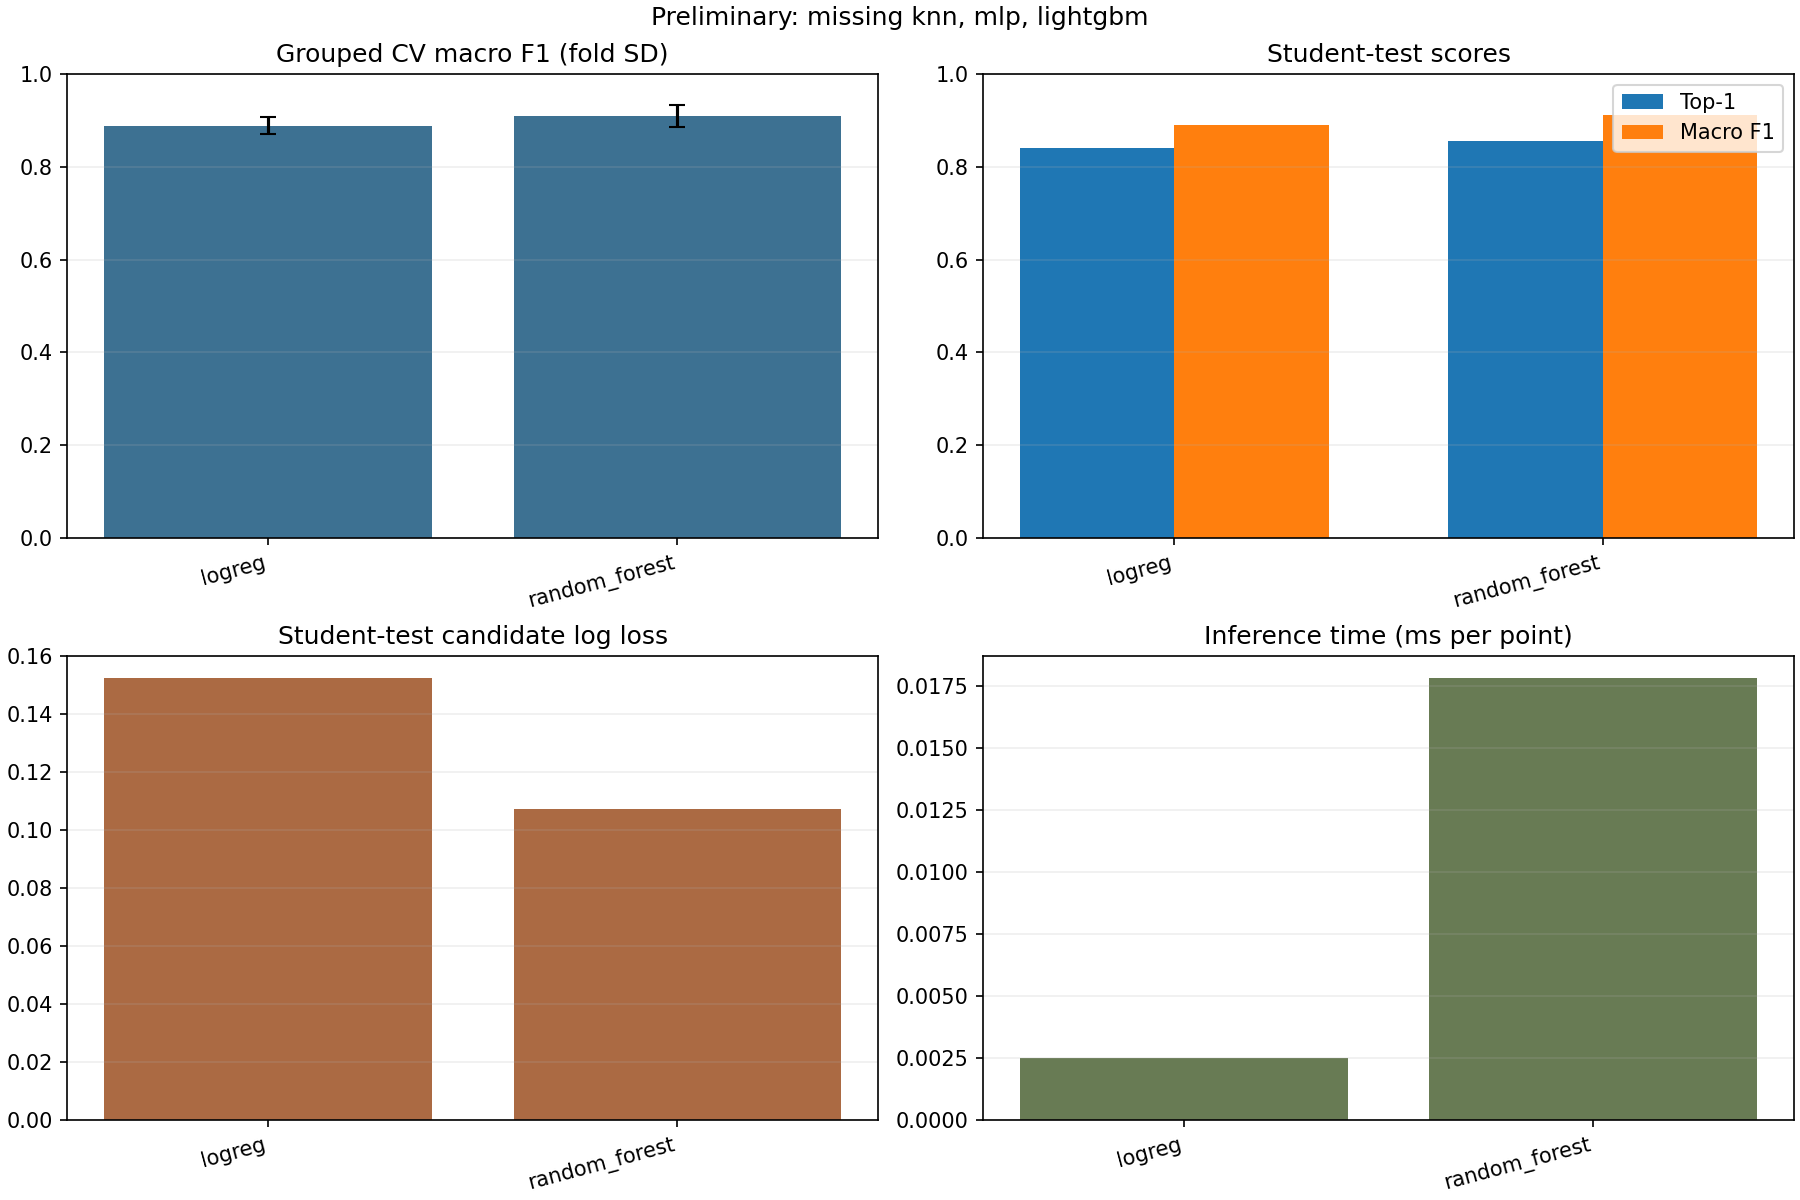
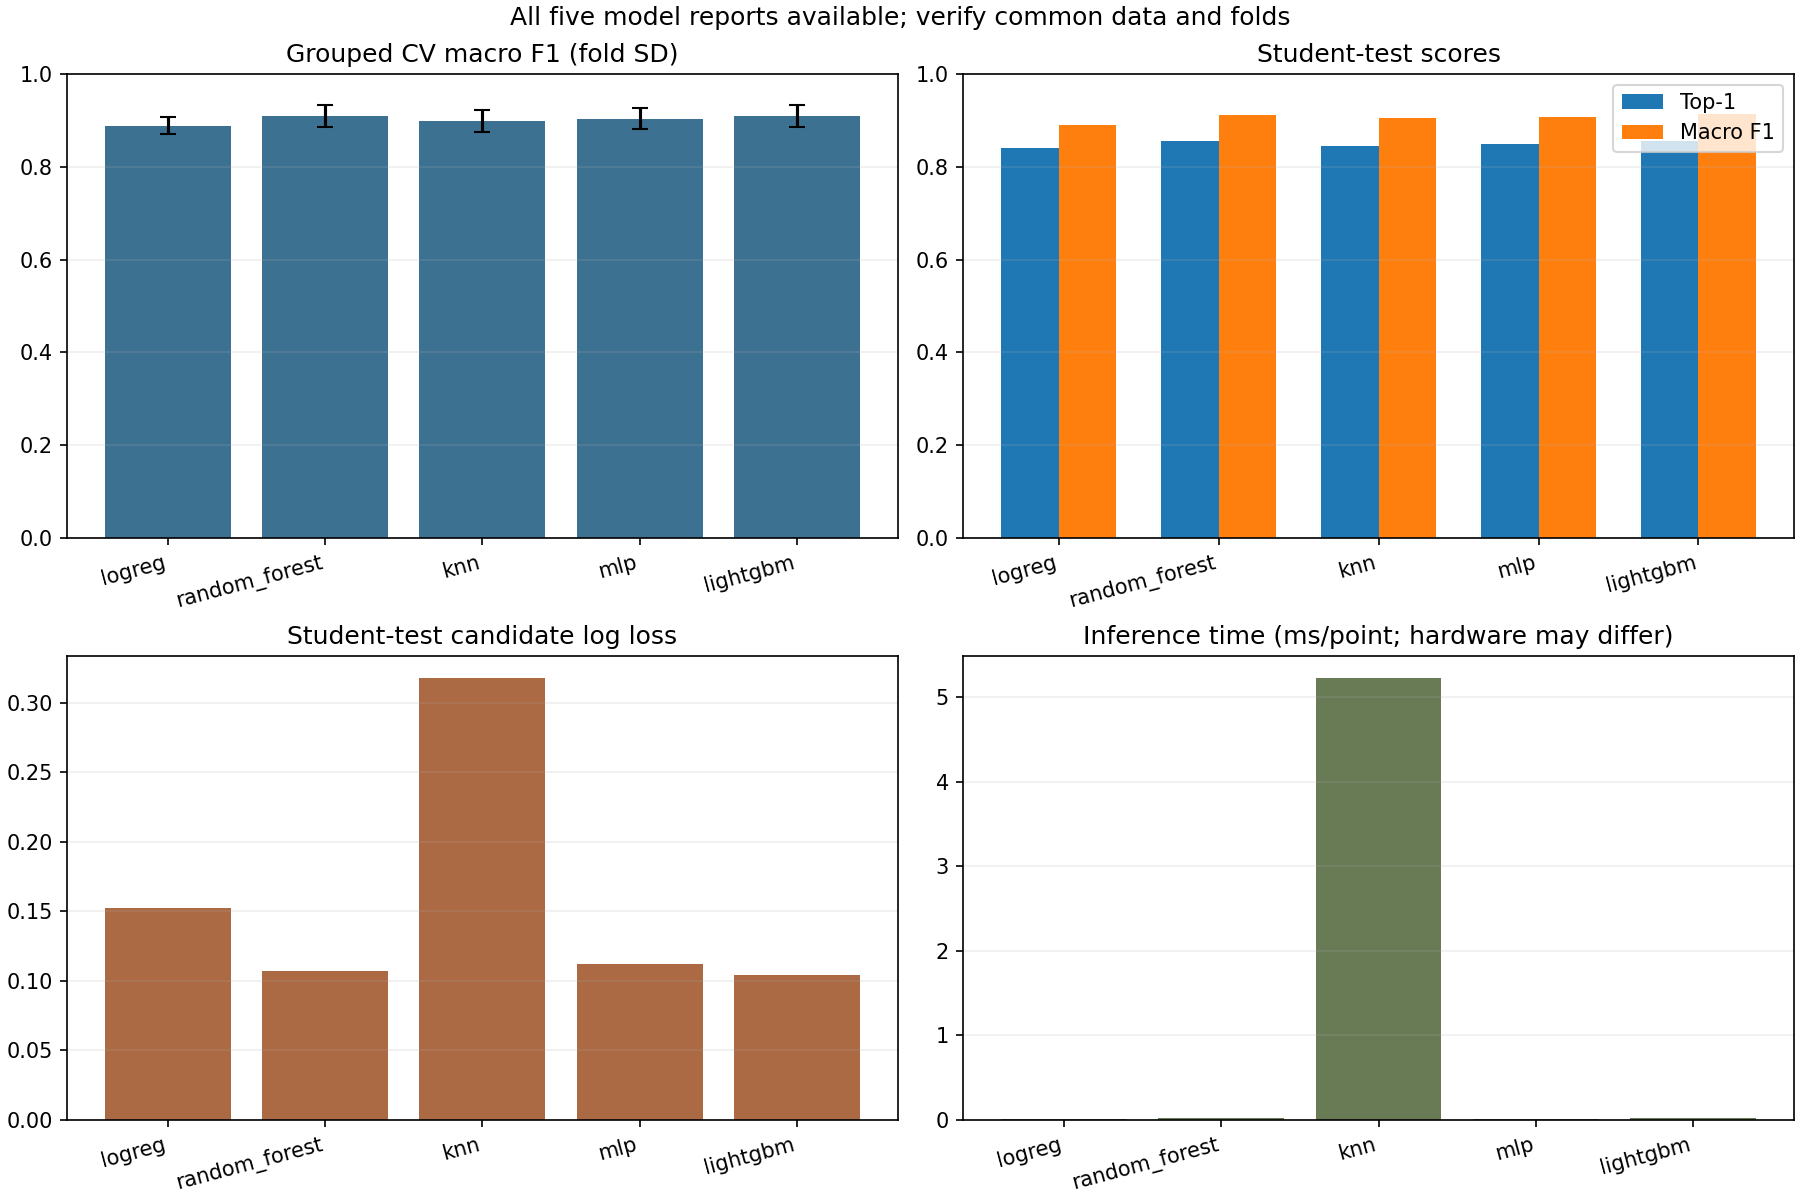
Compare v2 models and prepare Bayesian tuning

diff --git a/optimisation/tune_lightgbm.py b/optimisation/tune_lightgbm.py
@@ -1,0 +1,113 @@
+"""Tune v2 LightGBM with Optuna on trip-grouped training folds only.
+
+Run from repository root: python -m optimisation.tune_lightgbm
+The study resumes from SQLite and writes trials.csv after each completed trial.
+"""
+from __future__ import annotations
+import argparse, hashlib, json, time
+from concurrent.futures import ThreadPoolExecutor
+from pathlib import Path
+import joblib
+import numpy as np
+import optuna
+import pandas as pd
+from lightgbm import early_stopping, log_evaluation
+from sklearn.model_selection import GroupShuffleSplit
+from models.lightgbm.train import make_pipeline, score, SEED, INNER_VAL_FRACTION, EARLY_STOPPING_ROUNDS
+from pathsnap.config import CFG, repo_path
+from pathsnap.features import FEATURE_COLUMNS
+from pathsnap.quality import flagged_trip_ids
+
+MIN_TRIALS = 50
+
+def digest_files(paths):
+    out={}
+    for path in paths:
+        with path.open('rb') as f: out[str(path.name)]=hashlib.file_digest(f,'sha256').hexdigest()
+    return out
+
+def load_train():
+    base=repo_path(CFG['processed_dir']); folds=pd.read_csv(base/'folds.csv'); excluded=flagged_trip_ids()
+    train=pd.read_parquet(base/'train_candidates.parquet'); refs=pd.read_parquet(base/'point_refs.parquet')
+    if CFG['dataset_version']!=2 or excluded!=[33,54]: raise ValueError('Unexpected v2 configuration or exclusions')
+    if set(train.trip_id.unique())!=set(folds.trip_id): raise ValueError('Training trips do not match folds')
+    train=train[~train.trip_id.isin(excluded)].reset_index(drop=True)
+    refs=refs[refs.trip_id.isin(train.trip_id.unique())].reset_index(drop=True)
+    if len(set(train.trip_id))!=78 or folds.fold.nunique()!=5: raise ValueError('Expected 78 retained trips and 5 folds')
+    return train,refs,folds,excluded
+
+def params_for(trial):
+    return {'num_leaves':trial.suggest_int('num_leaves',15,127,log=True),
+      'learning_rate':trial.suggest_float('learning_rate',0.02,0.2,log=True),
+      'min_child_samples':trial.suggest_int('min_child_samples',10,100,log=True),
+      'colsample_bytree':trial.suggest_float('colsample_bytree',0.6,1.0),
+      'subsample':trial.suggest_float('subsample',0.6,1.0),
+      'reg_alpha':trial.suggest_float('reg_alpha',1e-8,10.0,log=True),
+      'reg_lambda':trial.suggest_float('reg_lambda',1e-8,10.0,log=True),
+      'n_estimators':1000, 'n_jobs':4}
+
+def fold_data(train,refs,folds):
+    fold_lookup=dict(zip(folds.trip_id,folds.fold)); assignment=train.trip_id.map(fold_lookup)
+    if assignment.isna().any(): raise ValueError('A training trip lacks a fold')
+    for fold in sorted(folds.fold.unique()):
+        outer=train[assignment!=fold]; validation=train[assignment==fold].reset_index(drop=True)
+        real=outer[outer.arc_id>=0].reset_index(drop=True)
+        group=GroupShuffleSplit(n_splits=1,test_size=INNER_VAL_FRACTION,random_state=SEED)
+        fit_idx,inner_idx=next(group.split(real,groups=real.trip_id)); fit=real.iloc[fit_idx]; inner=real.iloc[inner_idx]
+        assert not (set(fit.trip_id)&set(inner.trip_id)) and not (set(outer.trip_id)&set(validation.trip_id))
+        yield int(fold),fit,inner,validation,refs[refs.trip_id.isin(validation.trip_id.unique())]
+
+def run_target(target, out_dir):
+    if target<1: raise ValueError('Target trials must be positive')
+    out_dir.mkdir(parents=True,exist_ok=True); train,refs,folds,excluded=load_train()
+    base=repo_path(CFG['processed_dir']); fingerprint=digest_files([base/'train_candidates.parquet',base/'point_refs.parquet',base/'folds.csv',base/'trip_quality.csv',Path(__file__),repo_path('models/lightgbm/train.py')])
+    db=(out_dir/'study_v2.sqlite3').resolve(); sampler_path=out_dir/'sampler_v2.joblib'
+    sampler=joblib.load(sampler_path) if sampler_path.exists() else optuna.samplers.TPESampler(seed=SEED)
+    study=optuna.create_study(study_name='pathsnap_lightgbm_v2',storage='sqlite:///'+db.as_posix(),direction='maximize',sampler=sampler,load_if_exists=True)
+    if any(t.state==optuna.trial.TrialState.COMPLETE for t in study.trials) and not sampler_path.exists(): raise ValueError('Sampler state is missing; use a fresh study directory to avoid duplicate suggestions')
+    if study.user_attrs.get('fingerprint') not in (None,fingerprint): raise ValueError('Input/code changed since this study began; use a new study directory')
+    study.set_user_attr('fingerprint',fingerprint); study.set_user_attr('excluded_trips',excluded); study.set_user_attr('dataset_version',2)
+    splits=list(fold_data(train,refs,folds)); start=time.perf_counter()
+    def objective(trial):
+        params=params_for(trial)
+        def evaluate_fold(split):
+            fold,fit,inner,valid,ref=split
+            pipe=make_pipeline(**params)
+            pipe.fit(fit[FEATURE_COLUMNS],fit.label,model__eval_set=[(inner[FEATURE_COLUMNS],inner.label)],model__eval_metric='binary_logloss',model__callbacks=[early_stopping(EARLY_STOPPING_ROUNDS,verbose=False),log_evaluation(0)])
+            result=score(pipe,valid,ref)
+            return result['top1'],result['cand']['macro_f1'],result['cand']['log_loss'],int(pipe.named_steps['model'].best_iteration_)
+        # Independent folds run in parallel; map preserves their original order.
+        with ThreadPoolExecutor(max_workers=2) as executor:
+            per_fold=list(executor.map(evaluate_fold,splits))
+        scores,macros,losses,iterations=map(list,zip(*per_fold))
+        trial.set_user_attr('fold_top1',scores); trial.set_user_attr('fold_macro_f1',macros); trial.set_user_attr('fold_log_loss',losses); trial.set_user_attr('best_iterations',iterations)
+        trial.set_user_attr('cv_macro_f1_mean',float(np.mean(macros))); trial.set_user_attr('cv_log_loss_mean',float(np.mean(losses)))
+        return float(np.mean(scores))
+    def checkpoint(study,trial):
+        study.trials_dataframe().to_csv(out_dir/'trials.csv',index=False)
+        sampler_tmp=out_dir/'sampler_v2.tmp'; joblib.dump(study.sampler,sampler_tmp); sampler_tmp.replace(sampler_path)
+        print(f'trial {trial.number}: CV top1={trial.value:.6f}; completed={len([x for x in study.trials if x.state==optuna.trial.TrialState.COMPLETE])}; elapsed_s={time.perf_counter()-start:.1f}',flush=True)
+    complete=sum(t.state==optuna.trial.TrialState.COMPLETE for t in study.trials)
+    if complete<target: study.optimize(objective,n_trials=target-complete,callbacks=[checkpoint],gc_after_trial=True)
+    study.trials_dataframe().to_csv(out_dir/'trials.csv',index=False)
+    print('completed trials:',sum(t.state==optuna.trial.TrialState.COMPLETE for t in study.trials),flush=True)
+    if sum(t.state==optuna.trial.TrialState.COMPLETE for t in study.trials)<MIN_TRIALS:
+        print('Search is incomplete; not selecting or evaluating a final model.',flush=True); return
+    best=study.best_trial; best_params={**best.params,'n_estimators':int(np.median(best.user_attrs['best_iterations'])),'n_jobs':4}
+    real=train[train.arc_id>=0]; model=make_pipeline(**best_params); t0=time.perf_counter(); model.fit(real[FEATURE_COLUMNS],real.label); train_time=time.perf_counter()-t0
+    # Student-test files are opened only after the search and final choice.
+    test=pd.read_parquet(base/'test_candidates.parquet'); all_refs=pd.read_parquet(base/'point_refs.parquet'); test_refs=all_refs[all_refs.trip_id.isin(test.trip_id.unique())]; final=score(model,test,test_refs)
+    artifacts=repo_path(CFG['artifacts_dir']); artifacts.mkdir(parents=True,exist_ok=True); joblib.dump(model,artifacts/'final_model.joblib')
+    (artifacts/'feature_columns.json').write_text(json.dumps(FEATURE_COLUMNS,indent=2),encoding='utf-8')
+    baseline=json.loads((repo_path(CFG['results_dir'])/'lightgbm'/'metrics.json').read_text(encoding='utf-8-sig'))
+    summary={'model':'lightgbm','dataset_version':2,'excluded_trips':excluded,'n_completed_trials':sum(t.state==optuna.trial.TrialState.COMPLETE for t in study.trials),'best_trial':best.number,'best_cv_top1':best.value,'best_cv_macro_f1':best.user_attrs['cv_macro_f1_mean'],'best_cv_log_loss':best.user_attrs['cv_log_loss_mean'],'best_params':best_params,'test_top1':final['top1'],'test_macro_f1':final['cand']['macro_f1'],'test_log_loss':final['cand']['log_loss'],'test_candidate_miss_rate':final['miss'],'inference_ms_per_point':1000*final['predict_s']/final['n_points'],'refit_time_s':train_time,'baseline':{k:baseline[k] for k in ('cv_top1_mean','cv_macro_f1_mean','test_top1','test_macro_f1','test_log_loss','inference_ms_per_point')},'search_elapsed_s_this_invocation':time.perf_counter()-start,'search_trial_time_s_total':sum(t.duration.total_seconds() for t in study.trials if t.duration is not None),'fold_results':{'top1':best.user_attrs['fold_top1'],'macro_f1':best.user_attrs['fold_macro_f1'],'log_loss':best.user_attrs['fold_log_loss'],'best_iterations':best.user_attrs['best_iterations']}}
+    (out_dir/'best_params.json').write_text(json.dumps(best_params,indent=2),encoding='utf-8'); (out_dir/'summary.json').write_text(json.dumps(summary,indent=2),encoding='utf-8')
+    import matplotlib; matplotlib.use('Agg'); import matplotlib.pyplot as plt
+    figdir=repo_path(CFG['figures_dir']); figdir.mkdir(parents=True,exist_ok=True)
+    done=[t for t in study.trials if t.state==optuna.trial.TrialState.COMPLETE]; ys=np.array([t.value for t in done]); fig,ax=plt.subplots(figsize=(8,4)); ax.plot([t.number for t in done],ys,'.',label='trial'); ax.plot([t.number for t in done],np.maximum.accumulate(ys),label='best so far'); ax.set(xlabel='Trial',ylabel='Mean grouped-CV Top-1',title='LightGBM Bayesian optimisation'); ax.legend(); fig.tight_layout(); fig.savefig(figdir/'model_lightgbm_optuna_history.png',dpi=150); plt.close(fig)
+    importance=optuna.importance.get_param_importances(study); fig,ax=plt.subplots(figsize=(8,4)); ax.barh(list(importance)[::-1],list(importance.values())[::-1]); ax.set(xlabel='Relative importance',title='LightGBM search parameter importance'); fig.tight_layout(); fig.savefig(figdir/'model_lightgbm_optuna_importance.png',dpi=150); plt.close(fig)
+    print(json.dumps(summary,indent=2),flush=True)
+
+def main():
+    p=argparse.ArgumentParser(); p.add_argument('--trials',type=int,default=50,help='Target total completed trials, at least 50 for final output'); p.add_argument('--study-dir',default='optimisation'); args=p.parse_args(); run_target(args.trials,repo_path(args.study_dir))
+if __name__=='__main__': main()

diff --git a/models/logreg/compare_models.py b/models/logreg/compare_models.py
@@ -30,9 +30,14 @@ def main():
     axes[0,0].bar(x,df.cv_macro_f1_mean,yerr=df.cv_macro_f1_std,capsize=4,color='#3d7192'); axes[0,0].set_title('Grouped CV macro F1 (fold SD)'); axes[0,0].set_ylim(0,1)
     axes[0,1].bar(x-0.18,df.test_top1,width=.36,label='Top-1'); axes[0,1].bar(x+0.18,df.test_macro_f1,width=.36,label='Macro F1'); axes[0,1].set_title('Student-test scores'); axes[0,1].set_ylim(0,1); axes[0,1].legend()
     axes[1,0].bar(x,df.test_log_loss,color='#ab6a43'); axes[1,0].set_title('Student-test candidate log loss')
-    axes[1,1].bar(x,df.inference_ms_per_point,color='#687b54'); axes[1,1].set_title('Inference time (ms per point)')
+    axes[1,1].bar(x,df.inference_ms_per_point,color='#687b54'); axes[1,1].set_title('Inference time (ms/point; hardware may differ)')
     for ax in axes.flat: ax.set_xticks(x,df.model,rotation=15,ha='right'); ax.grid(axis='y',alpha=.2)
     fig.suptitle(subtitle,fontsize=12); fig.savefig(figures/'model_comparison_preliminary.png',dpi=150); plt.close(fig)
+    fig,ax=plt.subplots(figsize=(9,5),constrained_layout=True)
+    ax.bar(x,df.cv_top1_mean,yerr=df.cv_top1_std,capsize=4,color='#3d7192')
+    ax.set_xticks(x,df.model,rotation=15,ha='right'); ax.set_ylim(0,1); ax.set_ylabel('Mean observation-level Top-1'); ax.set_title('Trip-grouped CV Top-1 (fold SD)'); ax.grid(axis='y',alpha=.2)
+    fig.savefig(figures/'model_comparison_cv_top1.png',dpi=150); plt.close(fig)
     (root/'comparison_status.json').write_text(json.dumps({'included':df.model.tolist(),'missing':missing,'status':'preliminary' if missing else 'complete','metrics_source':'results/<model>/metrics.json','incompatible':incompatible,'dataset_version':required_version,'excluded_trips':required_exclusions},indent=2),encoding='utf-8')
     print('included:',', '.join(df.model),'missing:',', '.join(missing) if missing else 'none')
 if __name__=='__main__': main()
+

diff --git a/optimisation/README.md b/optimisation/README.md
@@ -1,2 +1,20 @@
-Bayesian optimisation (Optuna TPE, seed 42, >= 50 trials) - owner Zubed. Brief section 6.6.
-Outputs: trials.csv, best_params.json, optimisation-history and param-importance plots.
+# LightGBM Bayesian optimisation
+
+The five model results in `results/comparison.csv` use dataset version 2 and exclude training trips 33 and 54. LightGBM has the highest mean grouped-CV observation-level Top-1 in the recorded comparison; its lead over random forest is small. Reference point labels are approximate.
+
+Run from the repository root with the team's pinned Python 3.11 environment and the processed data available:
+
+```bash
+python -m optimisation.tune_lightgbm --trials 50
+```
+
+The TPE sampler uses seed 42. Each trial uses the shared five trip-grouped folds, excludes the flagged training trips, and scores mean observation-level Top-1. Each outer training fold is split by trip for early stopping; its held-out fold is used only for scoring. Candidate macro F1, log loss, per-fold Top-1 and best iteration are also recorded. The search considers num_leaves 15–127, learning_rate 0.02–0.2, min_child_samples 10–100, colsample_bytree 0.6–1.0, subsample 0.6–1.0, and L1/L2 regularisation 1e-8–10. Learning rate, leaf count, minimum child count and regularisation use log-scale sampling. A maximum of 1,000 boosting rounds and 50-round early stopping are used for each fold.
+
+The script checkpoints `trials.csv`, an SQLite study and sampler state after each completed trial. It fingerprints the data, folds, quality file and tuning code; it stops instead of resuming when those inputs change. The SQLite database and sampler state are local working files, not committed. To resume, keep both and rerun the same command. The 50-trial search can take substantial time.
+
+After at least 50 completed trials, the script chooses the best CV trial, refits using the median of its fold-specific best iterations, and only then loads the student-test candidate table for evaluation. The shared point-reference file is read earlier, but is filtered to retained training-trip IDs for the search. It writes `best_params.json`, `summary.json`, `artifacts/final_model.joblib`, `artifacts/feature_columns.json` and plots of optimisation history and parameter importance. A run with fewer than 50 completed trials is incomplete and does not publish a selected model or student-test result.
+
+The team still needs to address the MLP artifact compatibility issue and missing loss history noted during the model audit. That issue does not change the v2 fold scores, but it remains an integration limitation.
+
+
+For execution efficiency, from trial 10 onward independent folds run two at a time; trial 9 was interrupted and recorded as failed. The folds, data, scoring, model settings and search space did not change.
